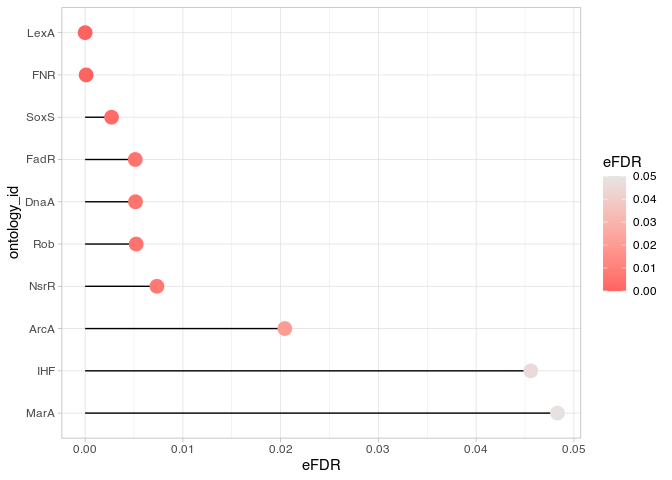
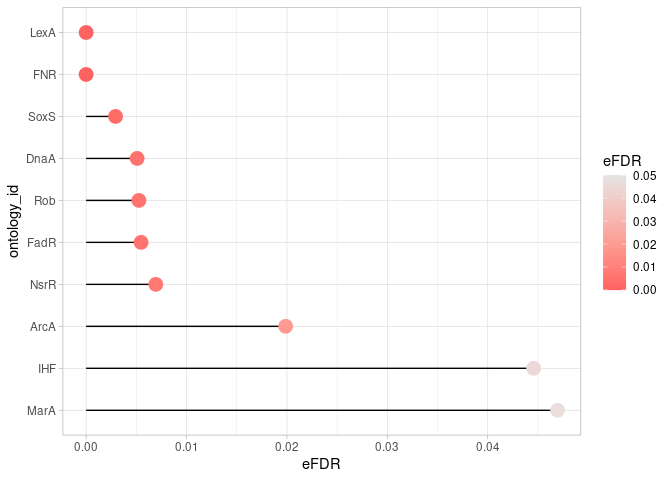
Use base fonts

diff --git a/README.md b/README.md
@@ -377,16 +377,16 @@ ora_results %>%
 
 | ontology_id | ontology_name | nr_common_with_tested_elements | nr_common_with_background_elements |   p_value |      eFDR |
 |:------------|:--------------|-------------------------------:|-----------------------------------:|----------:|----------:|
+| FNR         | FNR           |                             26 |                                259 | 0.0000003 | 0.0000000 |
 | LexA        | LexA          |                             14 |                                 53 | 0.0000000 | 0.0000000 |
-| FNR         | FNR           |                             26 |                                259 | 0.0000003 | 0.0001000 |
-| SoxS        | SoxS          |                              7 |                                 37 | 0.0001615 | 0.0027000 |
-| FadR        | FadR          |                              5 |                                 20 | 0.0003692 | 0.0051250 |
-| DnaA        | DnaA          |                              4 |                                 13 | 0.0006281 | 0.0051500 |
-| Rob         | Rob           |                              5 |                                 21 | 0.0004717 | 0.0052200 |
-| NsrR        | NsrR          |                              8 |                                 64 | 0.0010478 | 0.0073429 |
-| ArcA        | ArcA          |                             12 |                                148 | 0.0032001 | 0.0204250 |
-| IHF         | IHF           |                             14 |                                205 | 0.0070758 | 0.0455900 |
-| MarA        | MarA          |                              5 |                                 37 | 0.0066068 | 0.0483222 |
+| SoxS        | SoxS          |                              7 |                                 37 | 0.0001615 | 0.0029333 |
+| DnaA        | DnaA          |                              4 |                                 13 | 0.0006281 | 0.0050833 |
+| Rob         | Rob           |                              5 |                                 21 | 0.0004717 | 0.0052600 |
+| FadR        | FadR          |                              5 |                                 20 | 0.0003692 | 0.0054750 |
+| NsrR        | NsrR          |                              8 |                                 64 | 0.0010478 | 0.0069429 |
+| ArcA        | ArcA          |                             12 |                                148 | 0.0032001 | 0.0198750 |
+| IHF         | IHF           |                             14 |                                205 | 0.0070758 | 0.0445800 |
+| MarA        | MarA          |                              5 |                                 37 | 0.0066068 | 0.0469556 |
 
 ### Visualising the ORA Result
 
@@ -574,7 +574,7 @@ gsea_results %>%
   filter(adjusted_p_value < 0.05) %>% 
   # the number of such rows
   nrow()
-#> [1] 9
+#> [1] 10
 ```
 
 Inspect the significant results:
@@ -589,15 +589,16 @@ gsea_results %>%
 
 | ontology_id | ontology_name | nr_common_with_tested_elements |   p_value | adjusted_p_value |
 |:------------|:--------------|-------------------------------:|----------:|-----------------:|
-| LexA        | LexA          |                             53 | 0.0000000 |        0.0000017 |
-| FNR         | FNR           |                            259 | 0.0000773 |        0.0059114 |
-| ModE        | ModE          |                             45 | 0.0002120 |        0.0108115 |
-| ArcA        | ArcA          |                            148 | 0.0008014 |        0.0175163 |
-| DnaA        | DnaA          |                             13 | 0.0005083 |        0.0175163 |
-| GlaR        | GlaR          |                              3 | 0.0005907 |        0.0175163 |
-| SoxS        | SoxS          |                             37 | 0.0007373 |        0.0175163 |
-| PaaX        | PaaX          |                             14 | 0.0027564 |        0.0474872 |
-| PspF        | PspF          |                              7 | 0.0027934 |        0.0474872 |
+| LexA        | LexA          |                             53 | 0.0000000 |        0.0000015 |
+| FNR         | FNR           |                            259 | 0.0000581 |        0.0044443 |
+| ModE        | ModE          |                             45 | 0.0001485 |        0.0075738 |
+| ArcA        | ArcA          |                            148 | 0.0003440 |        0.0110972 |
+| DnaA        | DnaA          |                             13 | 0.0003896 |        0.0110972 |
+| SoxS        | SoxS          |                             37 | 0.0004352 |        0.0110972 |
+| GlaR        | GlaR          |                              3 | 0.0005541 |        0.0121114 |
+| PaaX        | PaaX          |                             14 | 0.0013346 |        0.0255241 |
+| PspF        | PspF          |                              7 | 0.0026454 |        0.0404742 |
+| Rob         | Rob           |                             21 | 0.0024974 |        0.0404742 |
 
 ### Visualising the GSEA Results
 
@@ -826,21 +827,21 @@ ordered_set %>%
 
 ``` r
 sessionInfo()
-#> R version 4.4.0 (2024-04-24)
+#> R version 4.4.1 (2024-06-14)
 #> Platform: x86_64-pc-linux-gnu
-#> Running under: Ubuntu 22.04.4 LTS
+#> Running under: Debian GNU/Linux 12 (bookworm)
 #> 
 #> Matrix products: default
 #> BLAS:   /usr/lib/x86_64-linux-gnu/openblas-pthread/libblas.so.3 
-#> LAPACK: /usr/lib/x86_64-linux-gnu/openblas-pthread/libopenblasp-r0.3.20.so;  LAPACK version 3.10.0
+#> LAPACK: /usr/lib/x86_64-linux-gnu/openblas-pthread/libopenblasp-r0.3.21.so;  LAPACK version 3.11.0
 #> 
 #> locale:
-#>  [1] LC_CTYPE=en_US.UTF-8       LC_NUMERIC=C              
-#>  [3] LC_TIME=hu_HU.UTF-8        LC_COLLATE=en_US.UTF-8    
-#>  [5] LC_MONETARY=hu_HU.UTF-8    LC_MESSAGES=en_US.UTF-8   
-#>  [7] LC_PAPER=hu_HU.UTF-8       LC_NAME=C                 
+#>  [1] LC_CTYPE=en_IE.UTF-8       LC_NUMERIC=C              
+#>  [3] LC_TIME=en_IE.UTF-8        LC_COLLATE=en_IE.UTF-8    
+#>  [5] LC_MONETARY=en_IE.UTF-8    LC_MESSAGES=en_IE.UTF-8   
+#>  [7] LC_PAPER=en_IE.UTF-8       LC_NAME=C                 
 #>  [9] LC_ADDRESS=C               LC_TELEPHONE=C            
-#> [11] LC_MEASUREMENT=hu_HU.UTF-8 LC_IDENTIFICATION=C       
+#> [11] LC_MEASUREMENT=en_IE.UTF-8 LC_IDENTIFICATION=C       
 #> 
 #> time zone: Europe/Budapest
 #> tzcode source: system (glibc)
@@ -854,26 +855,26 @@ sessionInfo()
 #>  [9] ggplot2_3.5.1   tidyverse_2.0.0 mulea_1.0.0    
 #> 
 #> loaded via a namespace (and not attached):
-#>  [1] fastmatch_1.1-4     gtable_0.3.5        xfun_0.44          
+#>  [1] fastmatch_1.1-4     gtable_0.3.5        xfun_0.45          
 #>  [4] ggrepel_0.9.5       lattice_0.22-6      tzdb_0.4.0         
-#>  [7] vctrs_0.6.5         tools_4.4.0         generics_0.1.3     
-#> [10] curl_5.2.1          parallel_4.4.0      fansi_1.0.6        
+#>  [7] vctrs_0.6.5         tools_4.4.1         generics_0.1.3     
+#> [10] curl_5.2.1          parallel_4.4.1      fansi_1.0.6        
 #> [13] highr_0.11          pkgconfig_2.0.3     Matrix_1.7-0       
-#> [16] data.table_1.15.4   lifecycle_1.0.4     compiler_4.4.0     
+#> [16] data.table_1.15.4   lifecycle_1.0.4     compiler_4.4.1     
 #> [19] farver_2.1.2        munsell_0.5.1       ggforce_0.4.2      
 #> [22] fgsea_1.30.0        graphlayouts_1.1.1  codetools_0.2-20   
 #> [25] htmltools_0.5.8.1   yaml_2.3.8          crayon_1.5.2       
-#> [28] pillar_1.9.0        MASS_7.3-60.2       BiocParallel_1.38.0
+#> [28] pillar_1.9.0        MASS_7.3-61         BiocParallel_1.36.0
 #> [31] cachem_1.1.0        viridis_0.6.5       tidyselect_1.2.1   
 #> [34] digest_0.6.35       stringi_1.8.4       labeling_0.4.3     
 #> [37] cowplot_1.1.3       polyclip_1.10-6     fastmap_1.2.0      
-#> [40] grid_4.4.0          colorspace_2.1-0    cli_3.6.2          
+#> [40] grid_4.4.1          colorspace_2.1-0    cli_3.6.2          
 #> [43] magrittr_2.0.3      ggraph_2.2.1        tidygraph_1.3.1    
 #> [46] utf8_1.2.4          withr_3.0.0         scales_1.3.0       
 #> [49] bit64_4.0.5         timechange_0.3.0    rmarkdown_2.27     
 #> [52] bit_4.0.5           igraph_2.0.3        gridExtra_2.3      
-#> [55] hms_1.1.3           memoise_2.0.1       evaluate_0.23      
-#> [58] knitr_1.46          viridisLite_0.4.2   rlang_1.1.3        
+#> [55] hms_1.1.3           memoise_2.0.1       evaluate_0.24.0    
+#> [58] knitr_1.47          viridisLite_0.4.2   rlang_1.1.4        
 #> [61] Rcpp_1.0.12         glue_1.7.0          tweenr_2.0.3       
 #> [64] vroom_1.6.5         rstudioapi_0.16.0   R6_2.5.1           
 #> [67] plyr_1.8.9
